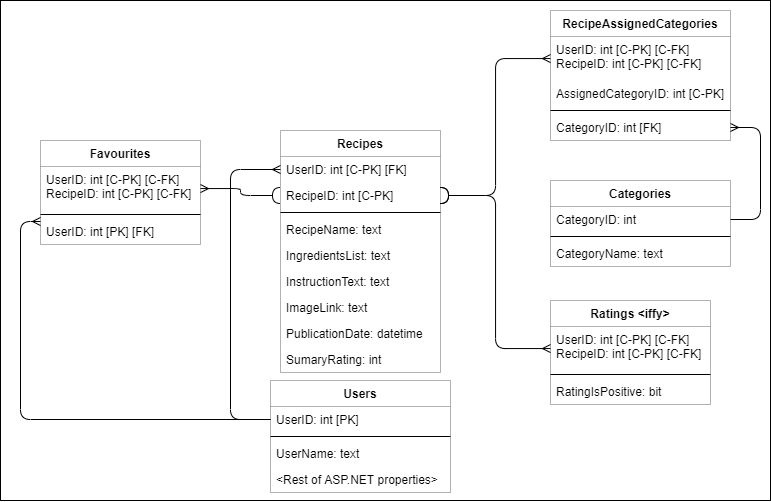
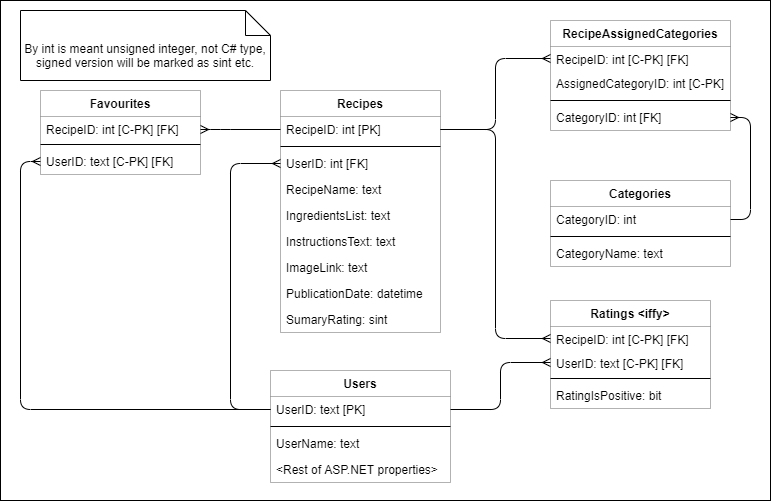
Filled in Models and updated Database diagram

diff --git a/Projekt-Przepisy/Models/Recipe.cs b/Projekt-Przepisy/Models/Recipe.cs
@@ -1,5 +1,6 @@
 using System;
 using System.Collections.Generic;
+using System.ComponentModel.DataAnnotations;
 using System.Linq;
 using System.Threading.Tasks;
 
@@ -10,11 +11,18 @@ namespace Projekt_Przepisy.Models
     /// </summary>
     public class Recipe
     {
-        //TODO: PK place here!
+        [KeyAttribute]
+        public uint ID { get; set; }
         
+        // <FK>
+        [MaxLength(450)]
+        public string UserID { get; set; }
+
+        [MaxLength(64, ErrorMessage = "Recipe name cannot be longer than 64 characters.")]
         public string RecipeName { get; set; }
         public string IngredientsList { get; set; }
-        public string InstructionText { get; set; }
+        public string InstructionsText { get; set; }
+        [UrlAttribute]
         public string ImageLink { get; set; }
         public DateTime PublicationDate { get; set; }
         public int SummaryRating { get; set; }

diff --git a/Projekt-Przepisy/Models/FavouriteRecipe.cs b/Projekt-Przepisy/Models/FavouriteRecipe.cs
@@ -1,5 +1,6 @@
 using System;
 using System.Collections.Generic;
+using System.ComponentModel.DataAnnotations;
 using System.Linq;
 using System.Threading.Tasks;
 
@@ -10,8 +11,15 @@ namespace Projekt_Przepisy.Models
     /// </summary>
     public class FavouriteRecipe
     {
-        //TODO: Place for a PK.
-        
-        //TODO: Place here UserID - when i come to know what type it is.
+        [KeyAttribute]
+        public ushort RecipeID { get; set; }
+
+        // <FK>
+        /// <summary>
+        /// User that like this recipe.
+        /// </summary>
+        [KeyAttribute]
+        [MaxLength(450)]
+        public string UserID { get; set; }
     }
 }

diff --git a/Projekt-Przepisy/Models/RecipeAssignedCategory.cs b/Projekt-Przepisy/Models/RecipeAssignedCategory.cs
@@ -1,5 +1,6 @@
 using System;
 using System.Collections.Generic;
+using System.ComponentModel.DataAnnotations;
 using System.Linq;
 using System.Threading.Tasks;
 
@@ -10,11 +11,13 @@ namespace Projekt_Przepisy.Models
     /// </summary>
     public class RecipeAssignedCategory
     {
-        //TODO: Place PK here!
-
+        [KeyAttribute]
+        public uint RecipeID { get; set; }
         // AssignedCategoryID
+        [KeyAttribute]
         public byte ID { get; set; }
+
         // <FK>
-        public int CategoryID { get; set; }
+        public uint CategoryID { get; set; }
     }
 }

diff --git a/Projekt-Przepisy/Models/RecipeRating.cs b/Projekt-Przepisy/Models/RecipeRating.cs
@@ -1,5 +1,6 @@
 using System;
 using System.Collections.Generic;
+using System.ComponentModel.DataAnnotations;
 using System.Linq;
 using System.Threading.Tasks;
 
@@ -10,7 +11,11 @@ namespace Projekt_Przepisy.Models
     /// </summary>
     public class RecipeRating
     {
-        //TODO: Place PK here!
+        [KeyAttribute]
+        public uint RecipeID { get; set; }
+        [KeyAttribute]
+        [MaxLength(450)]
+        public string UserID { get; set; }
 
         // RatingIsPositive
         public bool IsPositive { get; set; }

diff --git a/Projekt-Przepisy/Models/RecipeCategory.cs b/Projekt-Przepisy/Models/RecipeCategory.cs
@@ -1,5 +1,6 @@
 using System;
 using System.Collections.Generic;
+using System.ComponentModel.DataAnnotations;
 using System.Linq;
 using System.Threading.Tasks;
 
@@ -12,8 +13,10 @@ namespace Projekt_Przepisy.Models
     {
         // <PK>
         // CategoryID
+        [KeyAttribute]
         public int ID { get; set; }
         // CategoryName
+        [MaxLength(64)]
         public string Name { get; set; }
     }
 }
